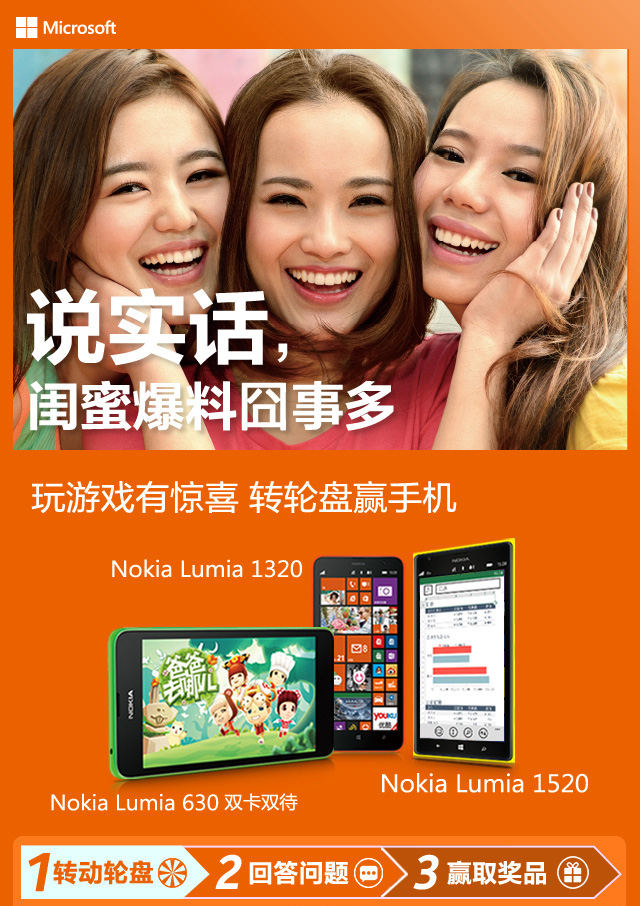
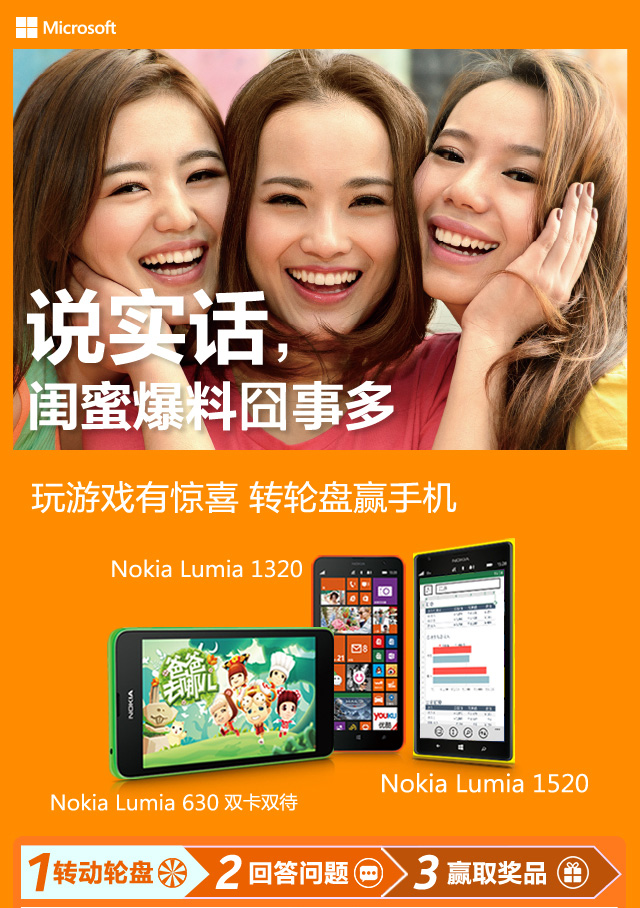
更改图片内容

diff --git a/Public/index/css/common2.css b/Public/index/css/common2.css
@@ -1,3 +1,3 @@
 /*闺蜜*/
-body{ background:#eb6100;}
+body{ background:#ff8b00;}
 a.safe_more{ position:absolute; left:4%; top:80%; width:22%; height:12%; display:inline-block; text-decoration:none;}
